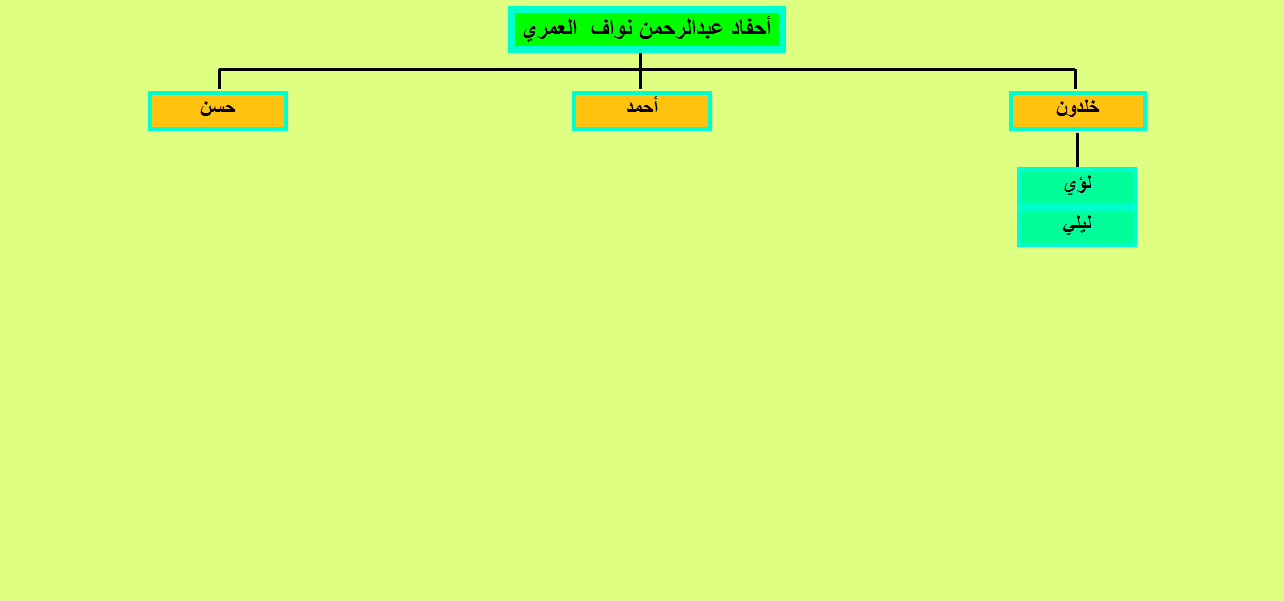
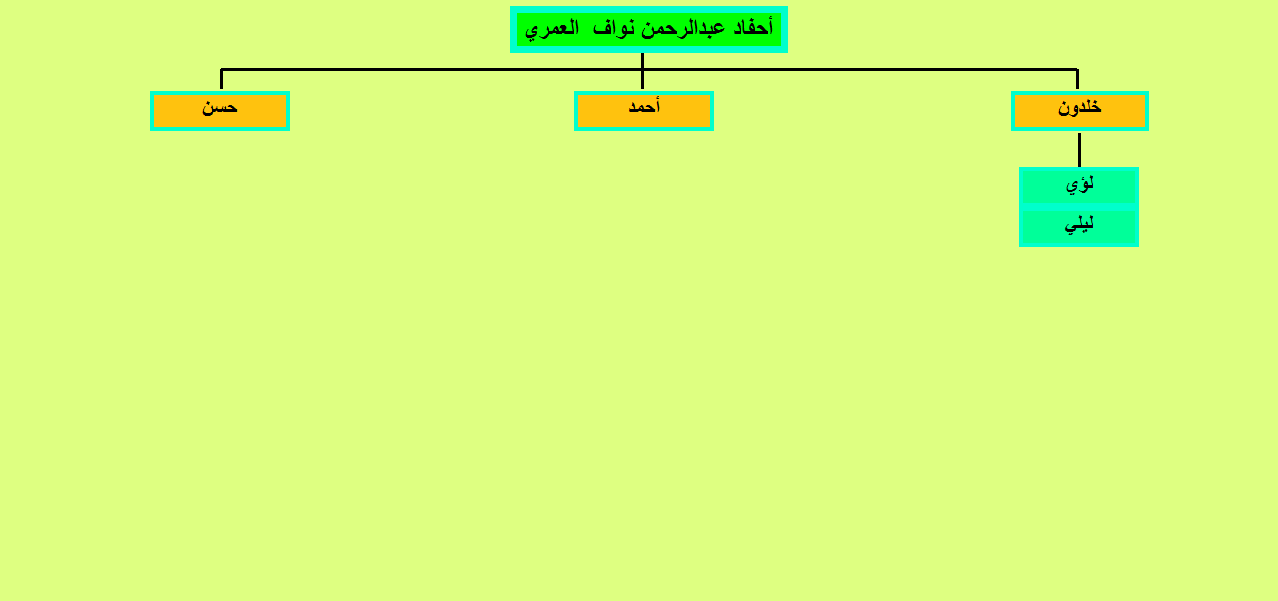
update

diff --git a/abdelrahman-n-sons.html b/abdelrahman-n-sons.html
@@ -30,12 +30,12 @@ function FP_getObjectByID(id,o) {//v1.0
 </script>
 </head>
 
-<body onload="FP_preloadImgs(/*url*/'button628.jpg',/*url*/'button629.jpg')" style="background-color: #DEFF81">
+<body onload="FP_preloadImgs(/*url*/'button634.jpg',/*url*/'button635.jpg')" style="background-color: #DEFF81">
 
-<div id="layer1" style="position: absolute; width: 114px; height: 33px; z-index: 1; left: 15px; top: 22px">
+<div id="layer1" style="position: absolute; width: 123px; height: 30px; z-index: 1; left: 15px; top: 26px">
 	<a href="index.html">
-	<img id="img1" alt="الصفحة الرئيسية" height="23" onmousedown="FP_swapImg(1,0,/*id*/'img1',/*url*/'button629.jpg')" onmouseout="FP_swapImg(0,0,/*id*/'img1',/*url*/'button630.jpg')" onmouseover="FP_swapImg(1,0,/*id*/'img1',/*url*/'button628.jpg')" onmouseup="FP_swapImg(0,0,/*id*/'img1',/*url*/'button628.jpg')" src="button630.jpg" style="border: 0" width="113" /><!-- MSComment="ibutton" fp-style="fp-btn: Metal Capsule 3; fp-font-style: Bold" fp-title="الصفحة الرئيسية" --></a></div>
-<img alt="" height="601" src="abdelrahman-n-sons.png" width="1284" />
+	<img id="img1" alt="الصفحة الرئيسية" height="23" onmousedown="FP_swapImg(1,0,/*id*/'img1',/*url*/'button635.jpg')" onmouseout="FP_swapImg(0,0,/*id*/'img1',/*url*/'button636.jpg')" onmouseover="FP_swapImg(1,0,/*id*/'img1',/*url*/'button634.jpg')" onmouseup="FP_swapImg(0,0,/*id*/'img1',/*url*/'button634.jpg')" src="button636.jpg" style="border: 0" width="113" /><!-- MSComment="ibutton" fp-style="fp-btn: Metal Capsule 3; fp-font-style: Bold" fp-title="الصفحة الرئيسية" --></a></div>
+<img alt="" height="601" src="abdelrahman-n-sons.png" width="1278" />
 
 </body>
 

diff --git a/wajeeh-n-sons.html b/wajeeh-n-sons.html
@@ -30,12 +30,12 @@ function FP_getObjectByID(id,o) {//v1.0
 </script>
 </head>
 
-<body onload="FP_preloadImgs(/*url*/'button631.jpg',/*url*/'button632.jpg')" style="background-color: #DEFF81">
+<body onload="FP_preloadImgs(/*url*/'button637.jpg',/*url*/'button638.jpg')" style="background-color: #DEFF81">
 
-<div id="layer1" style="position: absolute; width: 116px; height: 39px; z-index: 1; left: 19px; top: 22px">
+<div id="layer1" style="position: absolute; width: 116px; height: 31px; z-index: 1; left: 27px; top: 20px">
 	<a href="index.html">
-	<img id="img1" alt="الصفحة الرئيسية" height="22" onmousedown="FP_swapImg(1,0,/*id*/'img1',/*url*/'button632.jpg')" onmouseout="FP_swapImg(0,0,/*id*/'img1',/*url*/'button633.jpg')" onmouseover="FP_swapImg(1,0,/*id*/'img1',/*url*/'button631.jpg')" onmouseup="FP_swapImg(0,0,/*id*/'img1',/*url*/'button631.jpg')" src="button633.jpg" style="border: 0" width="110" /><!-- MSComment="ibutton" fp-style="fp-btn: Metal Capsule 3; fp-font-style: Bold" fp-title="الصفحة الرئيسية" --></a></div>
-<img alt="" height="601" src="wajeeh-n-sons.png" width="1277" />
+	<img id="img1" alt="الصفحة الرئيسية" height="23" onmousedown="FP_swapImg(1,0,/*id*/'img1',/*url*/'button638.jpg')" onmouseout="FP_swapImg(0,0,/*id*/'img1',/*url*/'button639.jpg')" onmouseover="FP_swapImg(1,0,/*id*/'img1',/*url*/'button637.jpg')" onmouseup="FP_swapImg(0,0,/*id*/'img1',/*url*/'button637.jpg')" src="button639.jpg" style="border: 0" width="113" /><!-- MSComment="ibutton" fp-style="fp-btn: Metal Capsule 3; fp-font-style: Bold" fp-title="الصفحة الرئيسية" --></a></div>
+<img alt="" height="600" src="wajeeh-n-sons.png" width="1278" />
 
 </body>
 
